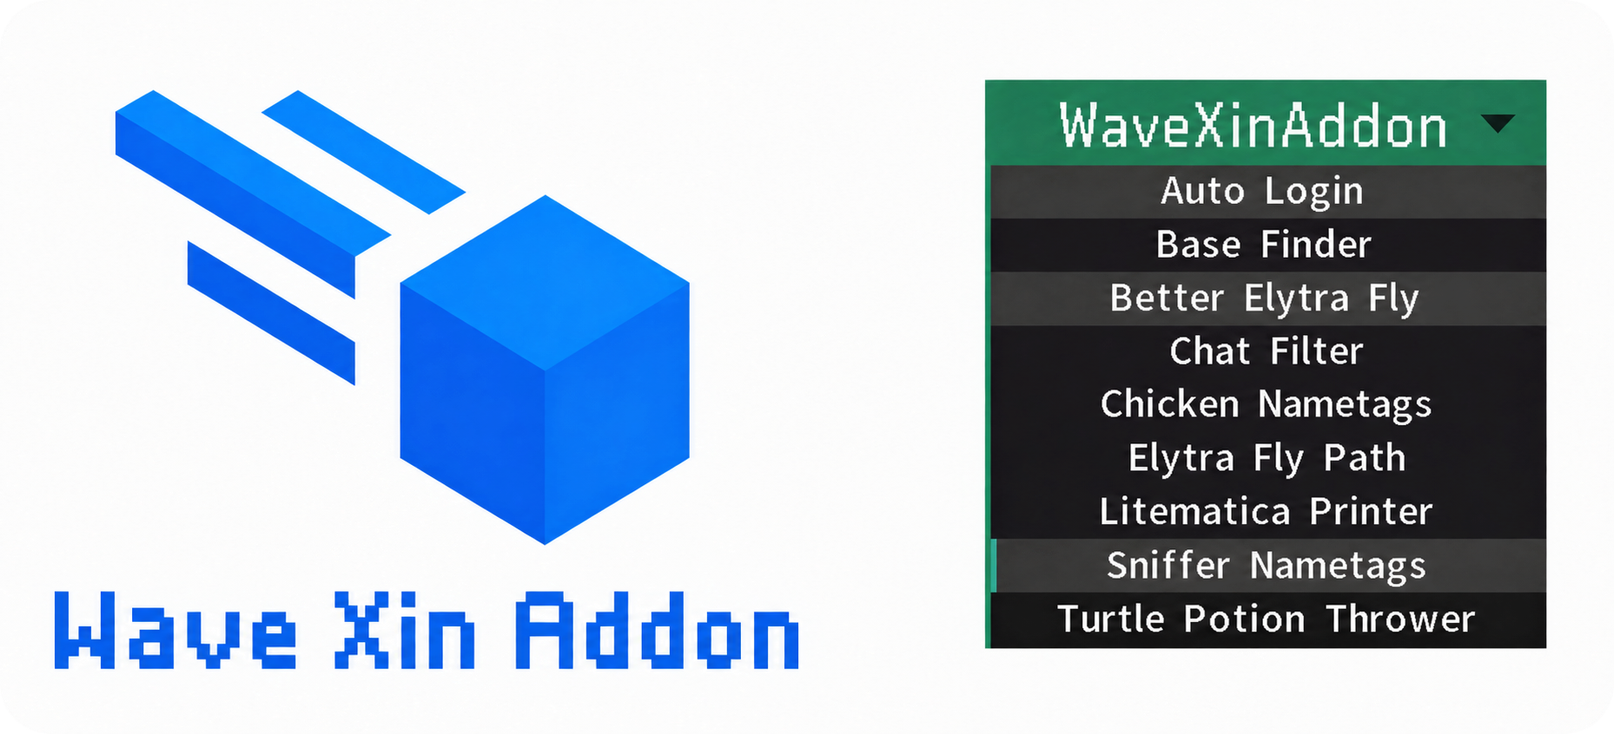
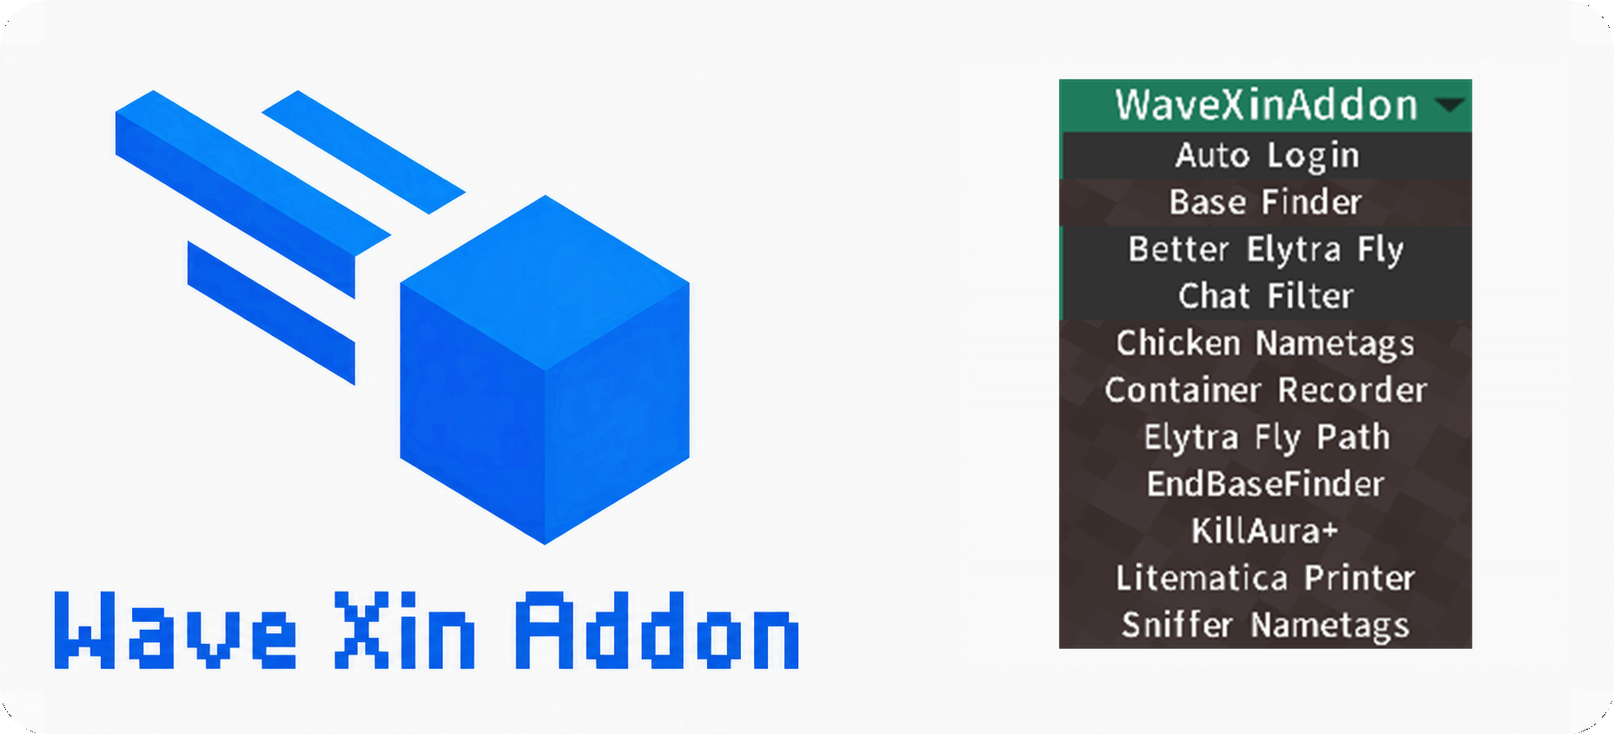
docs: refresh feature guides and preview

Changed region(s): [[0.5931, 0.0922, 0.9677, 0.8913]]

diff --git a/docs/README_LOGIC_EN.md b/docs/README_LOGIC_EN.md
@@ -1,16 +1,20 @@
 # WaveXinAddon Feature Logic Guide
 
-## New 1.8.0 modules
-
-- **KillAura+:** An activation-controlled adaptation of [Alienv4 Aura (e443c5b)](https://github.com/RageCat420/AlienClient-OpenSource/blob/e443c5bc499af722429d311333d10377623d6f9b/src/main/java/dev/luminous/mod/modules/impl/combat/Aura.java), with a license independent of EndBaseFinder. Defaults to attack range 6, candidate search range 8, wall range 6, and cooldown progress 1.1; search range does not extend attack range. Retains entity/friend filtering, low-armor priority, delay/vanilla timers, TPS scaling, yaw steps, FOV gating, and swing choices, without mace logic or an Alien runtime dependency.
-- **KillAura+ rendering:** Provides fills, boxes, animated rings, hit colors, and easing curves. The original ThunderHack display is adapted as a Meteor 3D target cross, not a pixel-identical shader recreation, and is labeled accordingly. Rotation callbacks recheck the active module, world, target, and range before attacking.
-
 This page describes implementation details and notable behavior for the public ClickGUI modules. It is not a complete settings reference; the in-game module settings remain authoritative.
+
+### KillAura+
+
+- KillAura+ is an optional module controlled by a local license. A successful `.wavexin redeem <code>` registers it immediately in the WaveXinAddon category without enabling it. It and EndBaseFinder use independent, locally encrypted Windows licenses that are revalidated at every startup.
+- Combat behavior is independently adapted from [Alienv4 Aura (e443c5b)](https://github.com/RageCat420/AlienClient-OpenSource/blob/e443c5bc499af722429d311333d10377623d6f9b/src/main/java/dev/luminous/mod/modules/impl/combat/Aura.java) without loading the Alien runtime. Defaults are attack range 6, candidate search range 8, wall range 6, and cooldown progress 1.1. Candidate range affects display and selection only; it never extends actual attack range.
+- Separate filters cover players, mobs, animals, villagers, and slimes while excluding friends. It also supports distance/health ordering, low-armor player priority, delay or vanilla cooldown timing, TPS scaling, hurt-time limits, and client/server swing choices. `Weapon Only` is enabled by default and accepts swords, axes, and tridents.
+- The module pauses and clears its target while the player is dead, a screen is open, Blink is active, the held item violates the weapon restriction, or item use is disallowed while the player is using an item. Delayed rotation callbacks recheck the module, world, target, and range before attacking.
+- Rendering supports fill, box, animated ring, a Meteor 3D cross adaptation, or no display, together with hit colors, animation timing, and easing curves. The 3D cross adapts the original ThunderHack display and is not a pixel-identical shader recreation.
 
 ### Better Elytra Fly
 
 - Adjusts horizontal and vertical movement while gliding according to movement keys, view direction, and speed settings. `Flight Speed` retains its existing saved-setting key while displaying as Initial Speed, with a default of 1.8; `Descent Speed` keeps its existing range.
 - The standalone `Speed Acceleration` group is disabled by default, preserving fixed-speed behavior. When enabled, speed rises only during active gliding by the configured per-second amount, never exceeds its cap, and resets to Initial Speed when a new glide starts.
+- `Disable Acceleration While Ascending` is disabled by default. When enabled, ascent does not increase the current speed; if speed was already at the maximum before climbing, ascent keeps that maximum speed.
 - With `Reset After Lagback` enabled, a server position correction resets speed to Initial Speed for exactly five seconds before ramping resumes. With it disabled, corrections do not change speed.
 - The module's `Elytra Replace` setting group can independently enable automatic replacement. When the equipped elytra reaches the configured remaining-durability threshold, it finds a spare elytra above that threshold and equips it in the chest slot.
 - Replacement can be limited to active gliding. Missing-spare warnings are rate-limited to prevent chat spam.
@@ -48,7 +52,9 @@ This page describes implementation details and notable behavior for the public C
 ### Container Recorder
 
 - Container Recorder is an independent persistent module. It checks loaded chunks within its `Scan Radius` around the player (default: 4 chunks) and records a coordinate and count only when the selected container types meet `Container Threshold`.
-- It retains thrown-ender-pearl detection, record files, Xaero waypoints, the vanilla achievement toast, and the challenge-complete sound. When enabled manually, it operates independently of every scan module.
+- Container types are selectable and the threshold defaults to 10. Nearby loaded chunks are rechecked every 20 ticks, and newly received chunk data triggers an immediate check. Changing worlds clears session check caches so state cannot leak across worlds.
+- It retains optional thrown-ender-pearl detection, record files, Xaero waypoints, the vanilla achievement toast, and the challenge-complete sound. Xaero integration is off by default, with an area radius of 5 and at most 3 base waypoints per area; pearl record output is controlled separately. When enabled manually, it operates independently of every scan module.
+- Container records are stored in `meteor-client/wavexin/container/container-records.txt`. If that new file does not yet exist, the recorder migrates the legacy `meteor-client/base-finder-xin/container-records.txt`. Failed file or waypoint saves remain pending and are retried instead of permanently marking the chunk successful first.
 - Base Finder Normal Scan, Base Finder Spiral Scan, and EndBaseFinder each expose `Start Container Recorder`. A scan requests the recorder only after it really starts; concurrent requests keep it active until the last scan ends, including when the player originally enabled the recorder manually. Scans without this option do not take ownership of the recorder.
 
 ### Base Finder
@@ -61,12 +67,15 @@ This page describes implementation details and notable behavior for the public C
 
 ### EndBaseFinder
 
-- The module starts only in the End and predicts End return gateways locally from the entered world seed. `Generation Version` selects 1.12, 1.20.4, or both placement rules; predictions never replace confirming the actual blocks in loaded chunks.
-- `Rolling Radius (Chunks)` is a circular work radius centered on the player. It defaults to 1,000 chunks and ranges from 8 to 100,000. One background thread processes 32x32-chunk tasks from the center outward, so the route can start with the first usable candidate instead of waiting for the whole range. When the player comes within 100 blocks of the current work-circle edge, the center advances to the player and reuses overlapping task results from the current game session.
-- The rolling cache stays in memory and is isolated by world instance, seed, and generation version. Disabling and re-enabling the module can reuse the same session cache, while changing world, seed, or generation version cannot mix results. A dedicated top-right progress toast remains visible while the module is enabled and dynamically reports status, completed/total chunks, percentage, and the current workspace's gateway count. Completing the current range or temporarily exhausting candidates leaves the module enabled to await new results or the next range advance.
+- EndBaseFinder is an optional license-controlled module that starts only in the End and predicts End return gateways locally from the entered world seed. `Generation Version` defaults to 1.12 and can select 1.20.4 or both placement rules. Predictions never replace confirmation of actual blocks in loaded chunks.
+- `Rolling Radius (Chunks)` defines the entire circular work range. It defaults to 1,000 chunks and ranges from 8 to 100,000. `Calculation Batch (Chunks)` defaults to 3,000,000 and ranges from 1,000,000 to 100,000,000. One background thread processes complete 32x32-chunk tiles from the center outward, so an actual batch can be at most 1,023 chunks below its budget. A route can begin with the first usable candidate instead of waiting for the whole radius.
+- The scheduler retains its cursor after each batch and reports `Queued`. When no more than 10 calculated gateways remain unvisited and uncalculated tiles still exist, it queues the next batch; an empty first batch also continues. Only a fully processed circular range reports `Complete`, and newly published results do not replace a still-valid current target.
+- `Fixed Scan Center` is disabled by default, so each activation begins at the player's current position. Coming within 100 blocks of the work-circle edge advances the center to the player and reuses overlapping tiles. Fixed mode instead uses configurable X/Z coordinates and never advances after the range completes. The mode and coordinates are locked while active and can only be changed after disabling the module.
+- Calculation cache exists only for the current game session and is isolated by world instance, seed, generation version, center, and radius. Reopening the same configuration can reuse overlapping work, while world or key-setting changes cannot mix results. A dedicated top-right toast stays visible while enabled and reports `Scanning`, `Queued`, `Next Area`, `Complete`, or `Failed`, calculated/total chunks and percentage, plus arrived/discovered gateways and percentage.
+- Visited gateways are persisted by seed under `meteor-client/wavexin/end-gateways/`. Activation immediately counts historical entries inside the current work range, and gateways reached during calculation join the same total. Chat uses `Arrived At #N -> (x, z)` with that cumulative number instead of replaying history as `#1`, `#2`, and so on. If historical arrivals temporarily exceed discovered results, the toast percentage is capped at 100%.
 - Base Finder, Elytra Fly Path, and EndBaseFinder are mutually exclusive. If one is active, either of the others refuses to start and reports the conflict in chat. While enabled, Base Finder and EndBaseFinder suppress player WASD, jump, and sneak input like Elytra Fly Path, then restore physical key states when disabled.
-- It supports four route algorithms, dwell time, automatic movement, per-seed persisted visited gateways, and rendering. Default colors are orange for the current target, green for 1.12 predictions, red for 1.20.4 predictions, and blue for completed gateways; all are editable.
-- After it has confirmed the End and started scanning, `Start Container Recorder` can request the independent Container Recorder.
+- It supports nearest-neighbor, TSP, scan-order, and random routes. Automatic look is enabled by default, arrival distance is 16 blocks, and dwell time is optional. Default colors are orange for the current target, green for 1.12 predictions, red for 1.20.4 predictions, and blue for completed gateways; all are editable. Default render distance is 1,024 blocks.
+- After confirming the End and starting a scan, `Start Container Recorder` requests the independent recorder by default. A `Queued` batch pause or completed current range does not release it. Only final EndBaseFinder deactivation or activation failure ends its request and closes the recorder according to linked ownership.
 
 ### Litematica Printer
 
@@ -81,10 +90,24 @@ This page describes implementation details and notable behavior for the public C
 - Use `.wavexin debug printer on/off` to control diagnostics in `meteor-client/wavexin/debug/[LitematicaPrinter]-yyyy-MM-dd-N.log`. Logs cover planner decisions, support sources, exact states, temporary rotation, screen interception, restocking, cache decisions, and audit results, with repeated-event summaries and batched writes to reduce overhead.
 - `Maximum Projection Volume` defaults to 10,000,000 and has a hard limit of 500,000,000. Raising the cap only permits larger bounds; scanning remains constrained by per-tick budgets, chunk loading, and memory. Liquids, entities, waterlogged states, and structures that cannot be placed reliably are reported after other actionable blocks have been handled.
 
+### Commands, Access, and Data Files
+
+- The Meteor command prefix is configurable; this guide uses the default `.`. `.wavexin redeem <code>` is the only optional-module redemption entry point. The input is used only for local digest matching and is not written to logs or plaintext files. Success registers the matching module immediately while leaving it disabled. EndBaseFinder and KillAura+ use `license.dat` and `killaura-license.dat`, respectively; Windows protects them for the current local user, and they cannot unlock each other.
+- `.wavexin check-update true|false` saves the startup update preference. `.wavexin lang Chinese|English` changes only WaveXinAddon text. `.wavexin debug <module> on|off` controls module logs. `.sel [1|2|c]` selects or clears the Printer restock region.
+- `meteor-client/wavexin/settings.json` stores global WaveXinAddon preferences, `scan-progress.json` stores Base Finder checkpoints, `container/container-records.txt` stores container records, and `end-gateways/` stores seed-scoped arrival history. EndBaseFinder tile and candidate caches exist only for the current game session and are never written to disk.
+- Upgrades do not convert old activation flags in `settings.json` or old licenses into current licenses. Without a valid license, a controlled module is not registered. Licenses and redemption input are excluded from normal settings, chat, update requests, and diagnostic logs.
+
+### Update Checks and Diagnostics
+
+- Startup update checks are enabled by default. They only read public GitHub Releases metadata in the background, never download or install an update, and do not upload accounts, players, servers, HWIDs, seeds, or configuration. If direct GitHub access fails, the checker tries `ghfast.top`, `gh-proxy.com`, and `gh.3w.pm` in that order. These are public third-party proxies whose availability is not controlled by this project.
+- The unified debug command supports `autologin`, `basefinder`, `elytraflypath`, `container`, `printer`, and `endbasefinder`. Each module writes a separate `meteor-client/wavexin/debug/[Module]-yyyy-MM-dd-N.log`, and repeated sessions on the same day receive distinct files.
+- Diagnostic output collapses repeated INFO events and flushes in batches to reduce long-running disk and main-thread overhead, while errors and important state changes remain prompt. Logs are for module diagnosis and do not record redemption input or stored passwords.
+
 ### Performance and Lifecycle
 
 - Addon settings are checked for changes every 20 ticks, with immediate flushes on screen changes, disconnect and orderly shutdown. Failed writes do not advance the saved signature and are retried. Forced process termination can lose approximately the last second of setting changes.
 - Container scanning uses primitive chunk keys and skips cache hits before accessing the chunk manager. The 20-tick recheck interval, thresholds and record format remain unchanged.
+- EndBaseFinder uses one calculation thread and controls work through 32x32-chunk tiles, a configurable batch budget, and batched result publication at most once per second. A large radius represents a long-running incremental job, not an immediate allocation or calculation of the entire circle.
 - Chicken and sniffer nametags use spatial queries filtered by entity type for ranges up to 256 blocks and squared-distance filtering. Larger ranges fall back to entity iteration to avoid enumerating large empty regions.
 - Elytra path flight combines velocity writes while preserving speed and damping calculations. AutoLogin rechecks the server on every activation so reconnecting while disabled cannot reuse a previous server's eligibility.
 

diff --git a/docs/README_LOGIC.md b/docs/README_LOGIC.md
@@ -1,16 +1,20 @@
 # WaveXinAddon 功能逻辑说明
 
-## 1.8.0 新模块
-
-- **KillAura+**：按 [Alienv4 Aura（e443c5b）](https://github.com/RageCat420/AlienClient-OpenSource/blob/e443c5bc499af722429d311333d10377623d6f9b/src/main/java/dev/luminous/mod/modules/impl/combat/Aura.java) 的行为适配，激活后可用，许可证独立于 EndBaseFinder。默认攻击距离 6、候选搜索距离 8、隔墙距离 6、冷却进度 1.1；搜索距离不会扩大实际攻击距离。保留实体/好友筛选、低护甲优先、延时/原版计时、TPS 换算、渐进转向、视角限制与挥手方式，不加入重锤逻辑或 Alien 运行时依赖。
-- **KillAura+ 显示**：保留填充、方框、环形动画、命中颜色和缓动曲线。原 ThunderHack 显示使用 Meteor 三维十字适配，并非原着色器效果的逐像素复刻；设置界面明确标注适配效果。异步转向后的攻击会重新检查模块、世界、目标和距离。
-
 本页说明 ClickGUI 中公开模块的实现方式与需要注意的行为。它不是完整的设置手册；实际可用选项以游戏内模块设置为准。
+
+### 杀戮光环+ (KillAura+)
+
+- KillAura+ 是受本地许可证控制的可选模块。通过 `.wavexin redeem <code>` 验证后会立即注册到 WaveXinAddon 分类，但不会自动启用；它与 EndBaseFinder 使用相互独立的 Windows 本地加密许可证，每次启动都会重新验证。
+- 战斗逻辑按 [Alienv4 Aura（e443c5b）](https://github.com/RageCat420/AlienClient-OpenSource/blob/e443c5bc499af722429d311333d10377623d6f9b/src/main/java/dev/luminous/mod/modules/impl/combat/Aura.java) 的行为独立适配，不加载 Alien 运行时。默认攻击距离 6、候选搜索距离 8、隔墙距离 6、冷却进度 1.1；候选搜索距离只决定显示和选取范围，不扩大实际攻击距离。
+- 可分别筛选玩家、生物、动物、村民和史莱姆，排除好友，并支持距离/生命值排序、低护甲玩家优先、延时或原版冷却、TPS 换算、受伤时间限制及客户端/服务端挥手方式。`Weapon Only` 默认启用，只允许剑、斧、三叉戟。
+- 模块会在玩家死亡、打开界面、Blink 启用、当前物品不符合武器限制，或禁止使用物品时玩家正在使用物品的情况下暂停并清空目标。异步转向后的攻击还会重新检查模块、世界、目标和距离。
+- 渲染支持填充、方框、环形动画、Meteor 三维十字适配和关闭显示，并提供命中颜色、动画时间和缓动曲线。三维十字是对原 ThunderHack 显示的 Meteor 适配，不是原着色器效果的逐像素复刻。
 
 ### 鞘翅飞行 (Better Elytra Fly)
 
 - 在鞘翅飞行期间接管水平与垂直运动计算，根据移动按键、视角和速度设置调整速度。显示为“初始速度”的 `Flight Speed` 保留原有配置键，默认值为 1.8；`Descent Speed` 保持原有范围不变。
 - 独立的 `Speed Acceleration` 设置组默认关闭，关闭时保持固定速度行为。开启后仅在实际滑翔时间内按“每秒增加速度”递增，最大速度始终不低于初始速度；停止滑翔并再次开始时会回到初始速度。
+- `Disable Acceleration While Ascending` 默认关闭；开启后，上升期间不会继续增加当前速度，但如果进入上升前已经达到最大速度，会以该速度继续上升。
 - 启用 `Reset After Lagback` 时，收到服务端位置修正会回到初始速度并保持 5 秒，随后才继续渐进加速；关闭时不因修正包改变速度。
 - 模块内的 `Elytra Replace` 设置组可单独启用自动更换：当已装备鞘翅的剩余耐久达到阈值时，从背包中寻找剩余耐久高于阈值的备用鞘翅并装备到胸甲栏。
 - 自动更换可限制为仅滑翔时执行；找不到备用鞘翅时使用冷却警告，避免每个游戏刻刷屏。
@@ -48,7 +52,9 @@
 ### 容器记录器 (Container Recorder)
 
 - Container Recorder 是独立的常驻模块，以玩家周围的 `Scan Radius`（默认 4 区块）检查已加载区块；仅在符合容器类型筛选且数量达到 `Container Threshold` 时记录坐标和数量。
-- 模块保留末影珍珠检测、记录文件、Xaero 路径点、原版成就提示框及挑战完成提示音。手动启用时独立运行，不依赖任何扫描模块。
+- 容器类型可在设置中选择，阈值默认 10。每 20 tick 复查附近已加载区块，区块数据到达时也会立即重新检查；切换世界时清理本次会话的检查缓存，避免把旧世界状态带入新世界。
+- 模块保留可选的末影珍珠检测、文件记录、Xaero 路径点、原版成就提示框及挑战完成提示音。Xaero 默认关闭，区域半径默认 5、每区域最多 3 个基地点；珍珠点可独立选择是否写入记录。手动启用时模块独立运行，不依赖任何扫描模块。
+- 容器记录保存在 `meteor-client/wavexin/container/container-records.txt`；首次使用新路径且文件不存在时，会迁移旧 `meteor-client/base-finder-xin/container-records.txt`。写入或路径点保存失败的待处理项会保留并重试，不会先把对应区块永久标记为成功。
 - Base Finder 的普通扫描、螺旋扫描和 EndBaseFinder 都有独立的 `Start Container Recorder` 开关。扫描真正开始后才请求启动记录器；多个扫描同时请求时，记录器会等最后一个请求结束才自动关闭，即使玩家原本手动开启也一样。未启用联动的扫描不会取得记录器的关闭权。
 
 ### 基地狩猎扫图 (Base Finder)
@@ -61,12 +67,15 @@
 
 ### 末地折跃门定位 (EndBaseFinder)
 
-- 模块只会在末地开始，根据输入的世界种子在本地预测末地返回折跃门。`Generation Version` 可选择 1.12、1.20.4 或同时扫描两种规则；预测结果不会替代已加载区块中的实际方块确认。
-- `Rolling Radius (Chunks)` 是以玩家为中心的圆形工作半径，默认 1,000 区块、范围 8–100,000。后台使用单线程从中心向外处理 32×32 区块任务；发现首个可用候选后即可开始路线，不等待整个范围完成。玩家距当前工作圆边缘 100 格时，扫描中心推进到玩家位置，并复用本次游戏会话内的重叠任务结果。
-- 滚动缓存只保存在内存中，并按世界实例、种子及生成版本隔离；模块关闭后再次开启可复用相同会话缓存，切换世界、种子或生成版本时不会串用。右上角独立进度提示在模块启用期间常驻，按批次动态显示扫描状态、已完成/总区块数、百分比及当前工作区折跃门总数。当前范围完成或暂无候选时模块仍保持启用，等待玩家推进下一范围或后台产生新结果。
+- EndBaseFinder 是受本地许可证控制的可选模块，只会在末地开始，并根据输入的世界种子在本地预测末地返回折跃门。`Generation Version` 默认为 1.12，也可选择 1.20.4 或同时扫描两种规则；预测结果不会替代已加载区块中的实际方块确认。
+- `Rolling Radius (Chunks)` 定义整个圆形工作范围，默认 1,000 区块、范围 8–100,000。`Calculation Batch (Chunks)` 默认 3,000,000、范围 1,000,000–100,000,000；后台单线程以完整的 32×32 区块 Tile 从中心向外分批处理，因此实际单批最多比预算少 1,023 区块。发现首个可用候选后即可开始路线，不等待整个半径完成。
+- 每批计算结束后保留调度游标并显示 `Queued`。当已计算但尚未到达的折跃门不超过 10 个且范围仍有未计算 Tile 时，会排入下一批；第一批没有候选时也会继续。只有整个圆形范围都处理完才显示 `Complete`，新增结果不会抢占仍然有效的当前目标。
+- `Fixed Scan Center` 默认关闭，此时每次启用以玩家当时位置为中心；玩家距当前工作圆边缘 100 格时，中心推进到玩家位置并复用重叠 Tile。固定中心开启后使用可配置的 X/Z，范围完成后不随玩家推进；模块运行期间中心模式及 X/Z 被锁定，需先关闭模块才能修改。
+- 计算缓存只保存在当前游戏会话内，并按世界实例、种子、生成版本、中心和半径隔离；相同配置关闭后再开启可复用重叠结果，切换世界或关键参数不会串用。右上角独立进度提示在模块启用期间常驻，动态显示 `Scanning`、`Queued`、`Next Area`、`Complete` 或 `Failed`、已计算/总区块及百分比、已到达/已发现折跃门及百分比。
+- 已访问折跃门按种子统一保存在 `meteor-client/wavexin/end-gateways/`。启用时会立即把当前工作范围内的历史记录计入已到达数量；本次计算期间实际抵达的点也同步计入。聊天中的 `Arrived At #N -> (x, z)` 使用这个累计数量，不会从 `#1` 逐条补报历史记录；当历史数量暂时大于已发现总数时，Toast 百分比封顶为 100%。
 - Base Finder、Elytra Fly Path 与 EndBaseFinder 互斥；其中任一已启用时，另外两个会拒绝启动并在聊天框提示。Base Finder 与 EndBaseFinder 启用期间会像 Elytra Fly Path 一样屏蔽玩家的 WASD、跳跃和潜行输入，停用后恢复物理按键状态。
-- 支持四种路线算法、到点停留、自动移动、已访问网关的种子隔离持久化及渲染。默认颜色为当前目标橘色、1.12 预测绿色、1.20.4 预测红色、已完成蓝色，全部可在设置中自行修改。
-- 在模块确认末地并开始扫描后，`Start Container Recorder` 可联动启动独立的 Container Recorder。
+- 支持最近邻、TSP、扫描顺序和随机四种路线算法；默认自动看向目标，到达距离为 16 格，可选到点停留。默认颜色为当前目标橘色、1.12 预测绿色、1.20.4 预测红色、已完成蓝色，全部可修改；默认渲染距离为 1,024 格。
+- 在模块确认末地并开始扫描后，`Start Container Recorder` 默认联动启动独立的 Container Recorder。批次暂停为 `Queued` 或当前范围完成时不会释放记录器；只有 EndBaseFinder 最终停用或启动失败时才结束自己的请求并按联动所有权关闭记录器。
 
 ### 投影打印机 (Litematica Printer)
 
@@ -81,10 +90,24 @@
 - 使用 `.wavexin debug printer on/off` 控制诊断日志，文件位于 `meteor-client/wavexin/debug/[LitematicaPrinter]-yyyy-MM-dd-N.log`。日志记录 planner、支撑、状态、临时旋转、界面拦截、补货、缓存和 audit 决策，并合并重复事件、批量写入以减少开销。
 - `Maximum Projection Volume` 默认 10,000,000，硬上限 500,000,000。提高上限只允许扫描更大的边界，不代表一次性加载；扫描仍受每 tick 预算、区块加载和内存约束。液体、生物、实体、含水状态及无法可靠放置的结构会在其他可施工方块完成后统一报告。
 
+### 指令、访问权限与数据文件
+
+- Meteor 指令前缀可由用户修改；本文用默认的 `.`。`.wavexin redeem <code>` 是可选模块的唯一兑换入口：输入只参与本地摘要匹配，不写入日志或明文文件；成功后对应模块立即注册但保持关闭。EndBaseFinder 与 KillAura+ 分别使用 `license.dat` 和 `killaura-license.dat`，许可证由 Windows 当前用户的本地加密能力保护，不能互相解锁。
+- `.wavexin check-update true|false` 保存启动时更新检查开关；`.wavexin lang Chinese|English` 只切换 WaveXinAddon 自身文本；`.wavexin debug <module> on|off` 控制模块日志；`.sel [1|2|c]` 选择或清除 Printer 补货区域。
+- `meteor-client/wavexin/settings.json` 保存 WaveXinAddon 全局偏好，`scan-progress.json` 保存 Base Finder 断点，`container/container-records.txt` 保存容器记录，`end-gateways/` 保存按种子隔离的到达历史。EndBaseFinder 的 Tile 与候选缓存只存在于当前游戏会话，不写入磁盘。
+- 升级不会把旧 `settings.json` 中的激活标记或旧许可证迁移为当前许可证；没有有效许可证时，受控模块不会注册。许可证与兑换内容不包含在普通设置、聊天、更新请求或诊断日志中。
+
+### 更新检查与诊断日志
+
+- 启动更新检查默认开启，仅后台读取公开的 GitHub Releases 版本信息，不自动下载或安装，也不上传账号、玩家、服务器、HWID、种子或配置。直连 GitHub 失败时按顺序尝试 `ghfast.top`、`gh-proxy.com` 和 `gh.3w.pm`；它们是第三方公开代理，可用性不由本项目保证。
+- 统一调试命令支持 `autologin`、`basefinder`、`elytraflypath`、`container`、`printer` 和 `endbasefinder`。日志分别写入 `meteor-client/wavexin/debug/[Module]-yyyy-MM-dd-N.log`，不同模块和同日多次会话使用独立文件。
+- 调试写入会合并重复 INFO 事件并批量刷新，以降低长期运行的磁盘与主线程开销；错误与重要状态仍会及时写入。日志用于模块诊断，不记录兑换输入或已保存密码。
+
 ### 性能与生命周期
 
 - 全插件设置每 20 tick 检查一次变更；界面切换、退服及正常退出时立即补存。写入失败不会更新已保存标记，后续检查会重试。强制结束进程可能丢失最近约一秒内的设置变更。
 - 容器扫描使用原始长整数区块键，先跳过缓存命中，再访问区块管理器；原有每 20 tick 复查、容器阈值与记录格式不变。
+- EndBaseFinder 只使用一个后台计算线程，并按 32×32 区块 Tile、可配置预算和最多每秒一次的批量结果发布控制开销；大半径代表长期增量任务，不代表一次性分配或计算整个圆形范围。
 - 鸡与嗅探兽标签在范围不超过 256 格时使用按类型的空间查询，距离筛选使用平方距离；超大范围回退到实体遍历，避免枚举大量空空间。
 - 鞘翅路径飞行合并每次移动的速度写入，保留原速度和阻尼计算；自动登录每次重新启用都会重查当前服务器，避免停用期间切服后沿用旧判断。
 

diff --git a/README_EN.md b/README_EN.md
@@ -2,7 +2,7 @@
 
 **Language / 语言:** [中文](README.md) | English
 
-WaveXinAddon is a Meteor Client addon designed for the **2b2t.xin** server. It provides elytra flight, automatic elytra replacement, path flight, semi-automatic Litematica printing, auto login, auto answer, automatic Daily Flower (monthly pass) check-ins, base scanning, chat filtering, entity nametags, and other utility modules.
+WaveXinAddon is a Meteor Client addon designed for the **2b2t.xin** server. It provides elytra flight and path navigation, semi-automatic Litematica printing, login and check-in automation, base and End-gateway scanning, container recording, chat filtering, entity nametags, and optional combat assistance.
 
 <p align="center">
   <img src="assets/wavexin_readme_preview.png" alt="WaveXinAddon Preview" width="850">
@@ -10,22 +10,19 @@ WaveXinAddon is a Meteor Client addon designed for the **2b2t.xin** server. It p
 
 ## Features
 
-* Better Elytra Fly: Configurable horizontal and vertical flight control with low-durability elytra replacement. Optional speed ramping increases from an initial speed to a cap and can reset after a server lagback cooldown.
+* Better Elytra Fly: Configurable horizontal and vertical flight control with low-durability elytra replacement. Optional speed ramping increases from an initial speed to a cap, can reset after a server lagback cooldown, and can be disabled while ascending.
 * Elytra Fly Path: Flies toward a target X/Z coordinate with Nether conversion, automatic takeoff, arrival stopping, optional disconnect, the same speed ramping, and an optional temporary Xaero target waypoint.
 * Chicken Nametags: Renders configurable name, health, and distance labels for nearby chickens.
 * Sniffer Nametags: Renders configurable name, health, and distance labels for nearby sniffers.
 * Auto Login: Automates supported 2b2t.xin login, quiz, Daily Flower check-in, and join flows while encrypting offline-account passwords.
 * Chat Filter: Separately filters MSG, public chat, and death messages with independent allowlists and an own-message bypass enabled by default.
-* Base Finder: Normal/spiral scanning, checkpoint resume, immediate visited-chunk rendering, container and pearl recording, and optional Xaero waypoints with area limits and exact creation-message colors.
+* Base Finder: Normal/spiral scanning, checkpoint resume, immediate visited-chunk rendering, and optional Xaero waypoints. Either scan can link to the independent Container Recorder.
 * Container Recorder: An independent recorder for selected loaded-chunk containers that meet its threshold. It supports pearl detection, record files, Xaero waypoints, vanilla achievement toasts, and the achievement sound. Each scan mode can start it automatically through its own option.
-* EndBaseFinder: Locally predicts End return gateways from the world seed for 1.12, 1.20.4, or both versions. It rolls the scan around the player, reuses overlapping results for the current game session, reports progress through a top-right toast, and supports routes, dwell time, automatic movement, rendering, and Container Recorder integration.
+* EndBaseFinder: Locally predicts End return gateways from the world seed for 1.12, 1.20.4, or both versions. It supports fixed or rolling centers, batched calculation, session caching, persisted arrival history, a persistent progress toast, four route modes, dwell time, automatic movement, version-colored rendering, and Container Recorder integration.
+* KillAura+: An optional melee module shown after local license validation. It provides independent target filters, attack timing, rotation, weapon restrictions, and several target render modes. Its license is separate from EndBaseFinder, and redeeming access never enables the module automatically.
 * Litematica Printer: While the player moves manually, places projection blocks with real support inside interaction range. Green marks the next batch, yellow marks retrying blocks, and red marks states requiring manual correction. It also handles directional states, double chests, hotbar refills, whole-stack restocking from a selected region, progress/container caches, and a dedicated debug log.
 
-For implementation details and feature-specific notes, see the [Feature Logic Guide](docs/README_LOGIC_EN.md). The staged Minecraft 1.21.1 port and acceptance criteria are documented in the [1.21.1 Compatibility Plan](docs/MC_1_21_1_PORT_PLAN.md).
-
-New in 1.8.0:
-
-* KillAura+: Adapts Alienv4 targeting, cooldown, and rotation behavior for automatic melee combat and target rendering. Available in WaveXinAddon after local license validation.
+For implementation details and feature-specific notes, see the [Feature Logic Guide](docs/README_LOGIC_EN.md). The completed Minecraft 1.21.1 adaptation record and acceptance criteria are documented in the [1.21.1 Compatibility Plan](docs/MC_1_21_1_PORT_PLAN.md).
 
 1.8.0 provides separate Minecraft 1.21.11 and 1.21.1 JARs; use the matching artifact.
 
@@ -34,6 +31,7 @@ New in 1.8.0:
 The Meteor command prefix is configurable. Current public commands:
 
 * `.sel [1|2|c]`: Select, confirm, or clear the Litematica Printer restock region.
+* `.wavexin redeem <code>`: Locally redeem access to an optional module. The matching module appears immediately after success but is not enabled automatically. The submitted value is not logged or stored in plaintext.
 * `.wavexin check-update true|false`: Save the startup update-check preference.
 * `.wavexin lang Chinese`: Change WaveXinAddon visible text only to Simplified Chinese.
 * `.wavexin lang English`: Change WaveXinAddon visible text only to English.
@@ -51,7 +49,7 @@ Litematica Printer also requires a Litematica build matching the active Minecraf
 
 ### Optional
 
-Base Finder's Xaero waypoint features may use the following components:
+Xaero waypoint features in Base Finder, Container Recorder, and Elytra Fly Path may use the following components:
 
 * Xaero's Minimap
 * Xaero's World Map
@@ -93,6 +91,8 @@ WaveXinAddon configuration files are automatically saved in:
 ```text
 meteor-client/wavexin/
 ```
+
+This directory contains global settings, separate locally encrypted licenses, scan checkpoints, container records, seed-scoped gateway arrival history, and module diagnostic logs. Licenses validate only for the current Windows user. EndBaseFinder and KillAura+ use independent licenses, and old settings-based activation flags or old licenses are not migrated during upgrade.
 
 ## Update Checks
 
